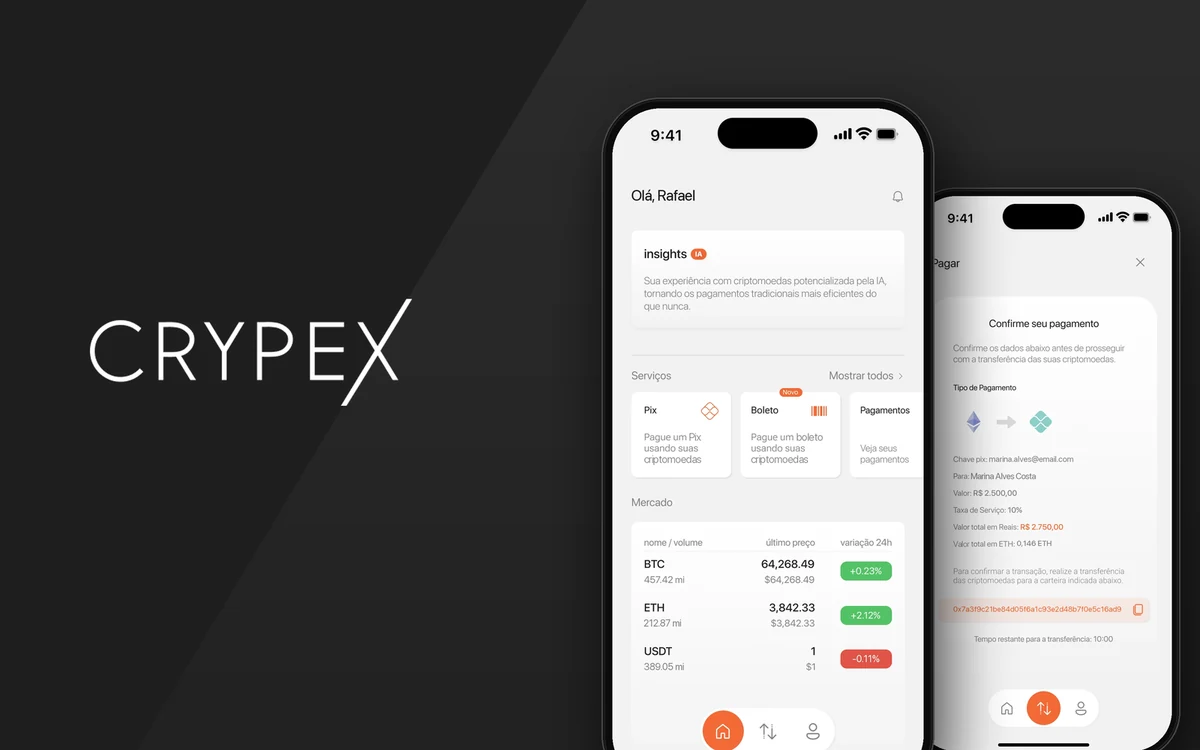
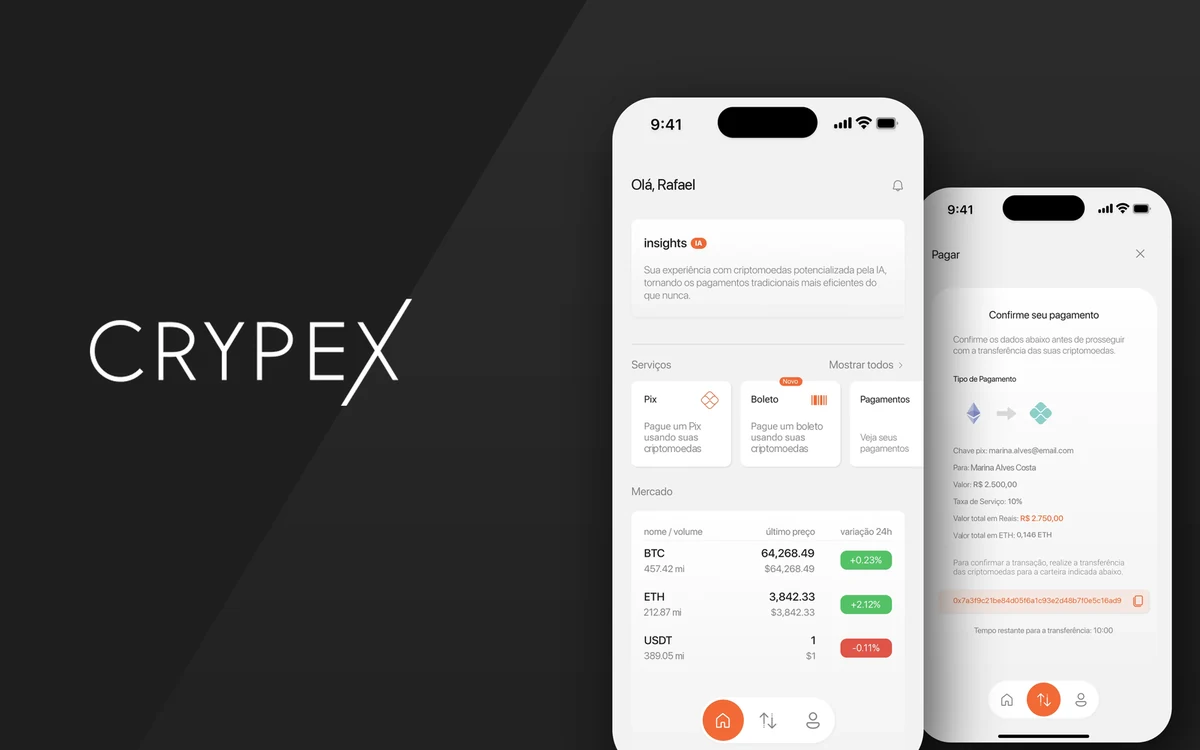
Crypex card: screens without the device frame

diff --git a/index.html b/index.html
@@ -264,7 +264,7 @@
               <span class="frame__label"><b>Case 02</b> Crypto payments <span class="dim">iOS · 390</span></span>
               <span class="frame__handles"><span></span></span>
               <div class="case__thumb">
-                <img class="crypex" src="assets/img/crypex/cover-card.webp?v=4" width="1200" height="750" alt="" loading="lazy">
+                <img class="crypex" src="assets/img/crypex/cover-card.webp?v=8" width="1200" height="750" alt="" loading="lazy">
               </div>
               <div class="case__body">
                 <div>
